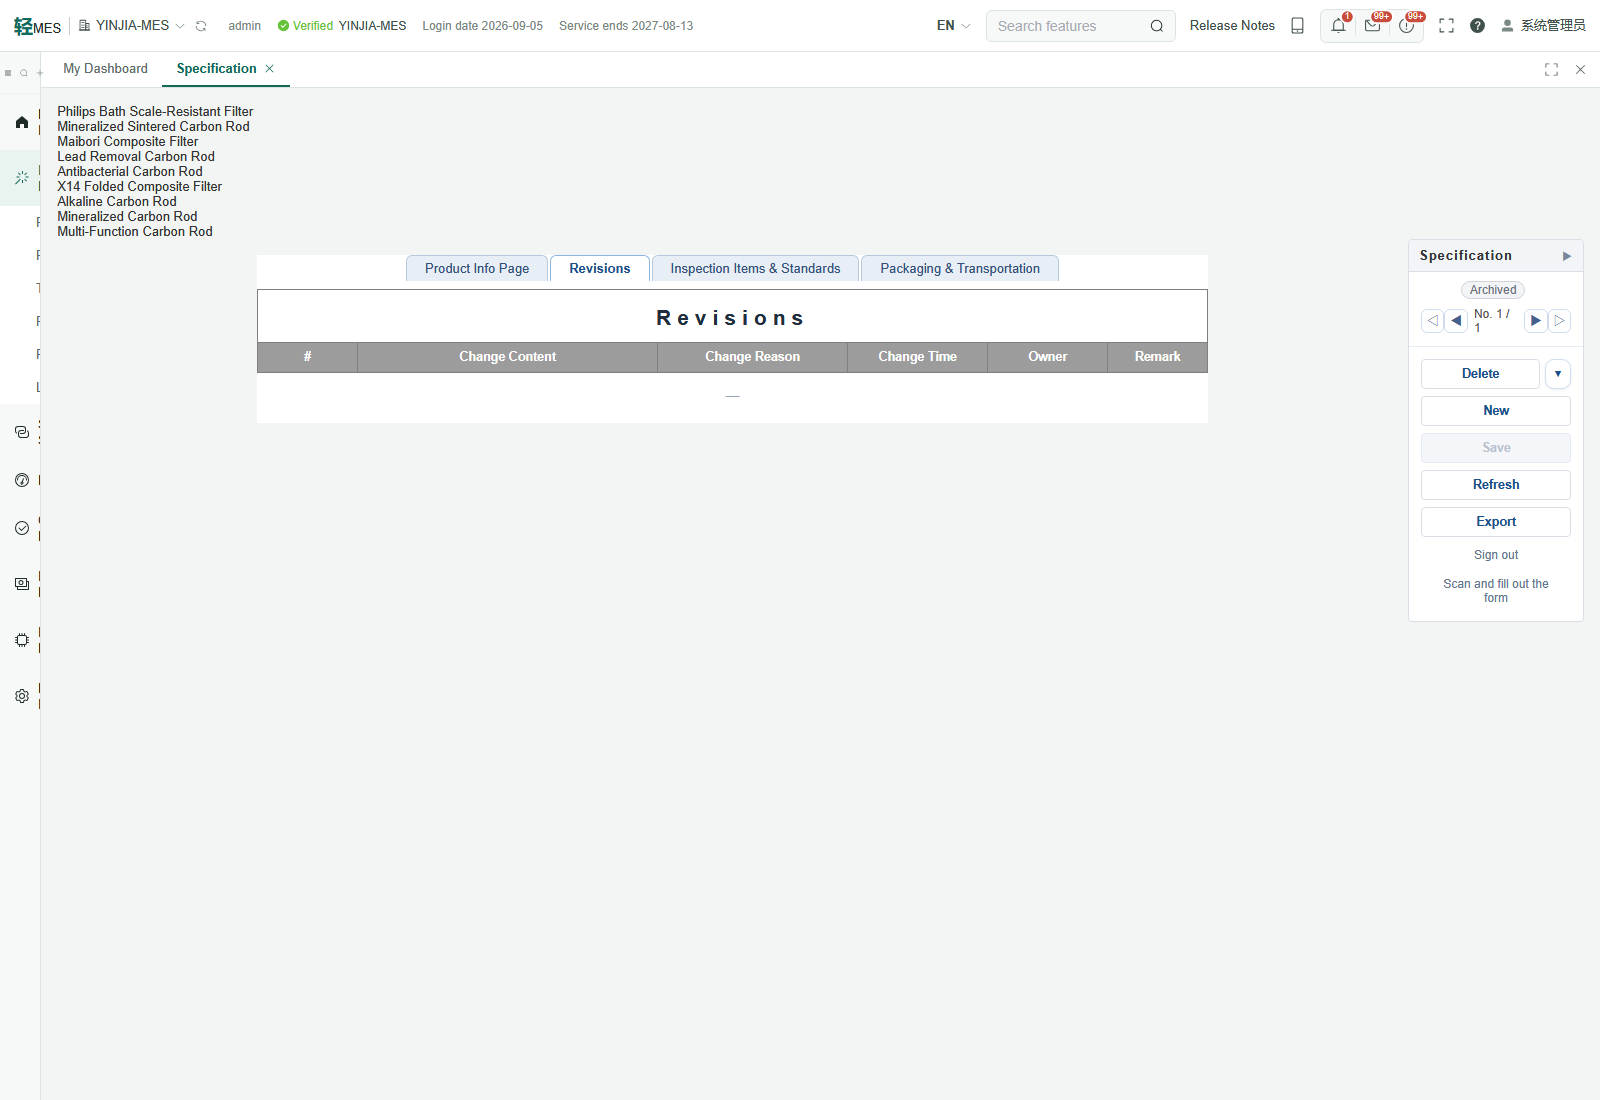
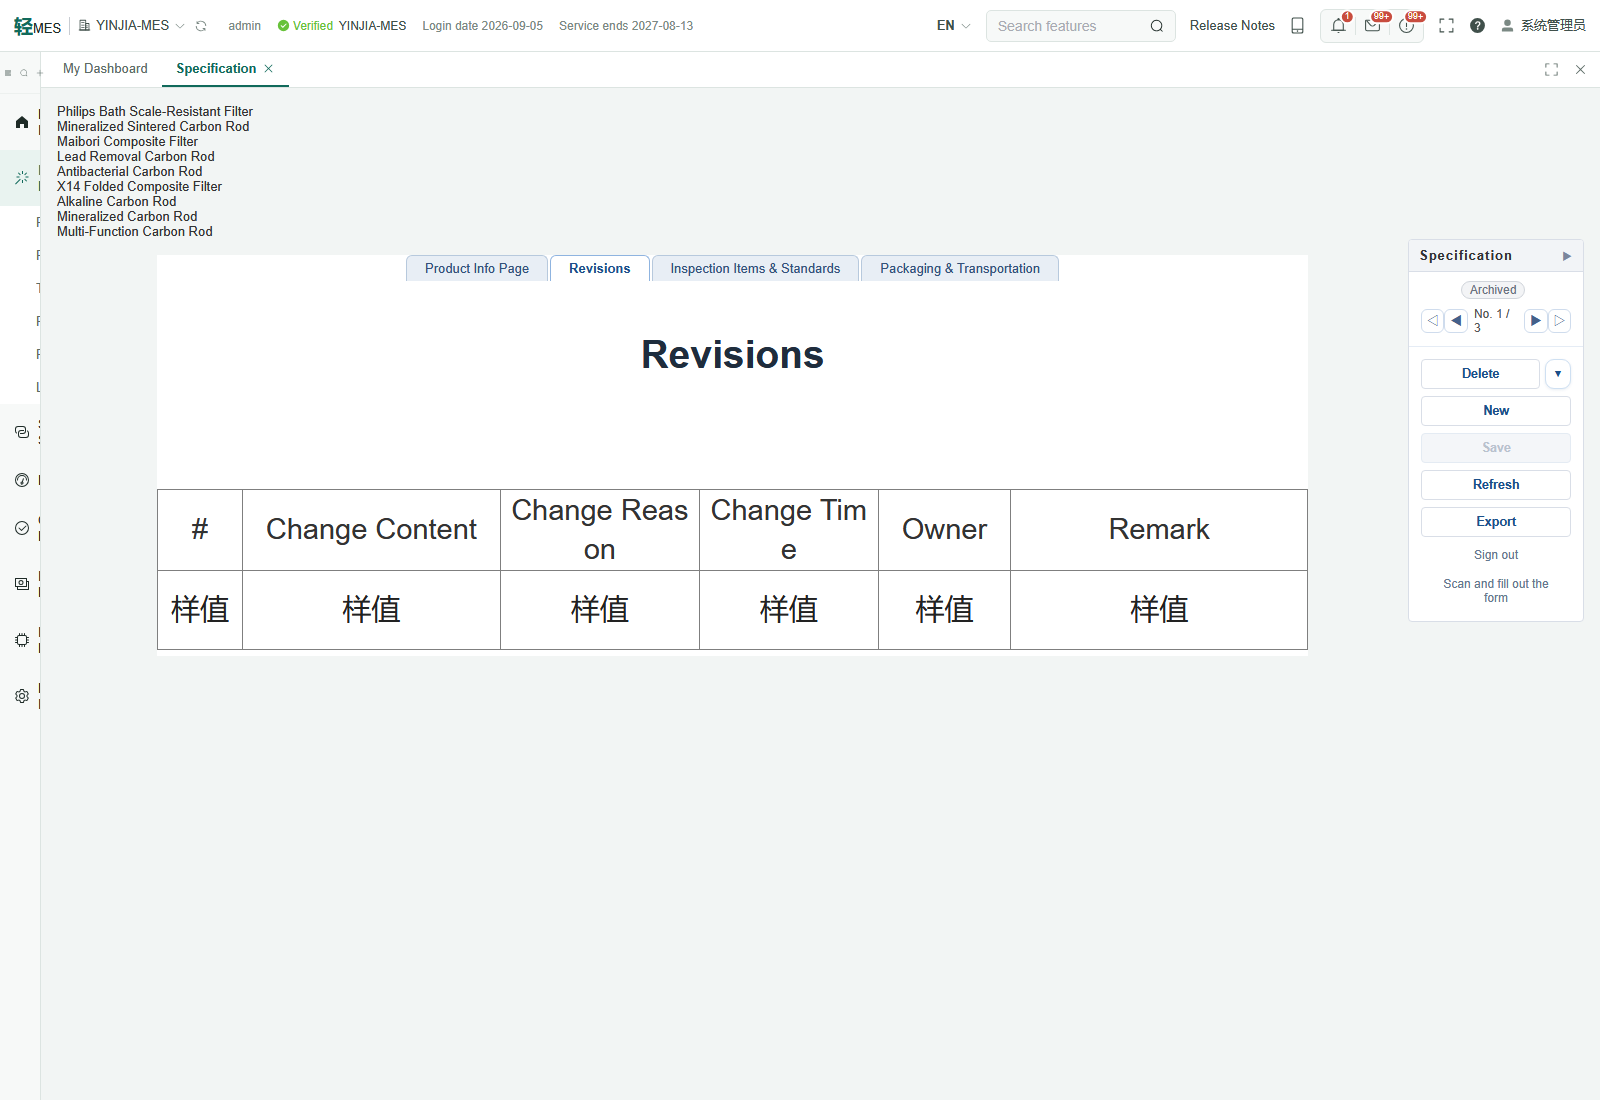
feat: 规格书修订记录页面图纸素级还原——dt.design 设计像素规范(标题字号/上下间距/表头行高/数据行高/字号按 k=网格宽÷表格设计宽 等比缩放);表头改白底正常字重,全部单元格居中,行高固定 65px/标题 32px(设计 666px 画布测量:列宽 46/140/108/97/72/161、表头 44、行 43、字号 16、标题 21);en 渲染同规格验证

diff --git a/frontend/src/core/views/RecordSheetPanels.vue b/frontend/src/core/views/RecordSheetPanels.vue
@@ -249,10 +249,10 @@
     <!-- ═══ 数据记录表(共享网格;支持子头行+两级表头;矿化 4 指标块各带散点图;按页归属渲染) ═══ -->
     <div v-for="(dt, di) in cfg.dataTables" v-show="pageOf(dt) === activePage" :key="'dt' + di" class="rsp-dt-wrap" :class="{ 'with-chart': dt.charts }">
       <div class="rsp-dt-table">
-        <table class="rs-t rs-dt" :style="{ width: (dtOwnsWidth(dt) ? dtW(dt) + (editable ? 60 : 0) : isPlain ? plainW(dt) : gridW + (editable ? 60 : 0)) + 'px' }">
+        <table class="rs-t rs-dt" :class="{ 'rsp-design-t': dt.design }" :style="{ width: (dtOwnsWidth(dt) ? (dt.design ? dtW(dt) * designK(dt) : dtW(dt)) + (editable ? 60 : 0) : isPlain ? plainW(dt) : gridW + (editable ? 60 : 0)) + 'px' }">
           <colgroup>
             <template v-if="isPlain || dtOwnsWidth(dt)">
-              <col v-for="(c, i) in visCols(dt)" :key="'dc' + i" :style="{ width: (c.w || 100) + 'px' }" />
+              <col v-for="(c, i) in visCols(dt)" :key="'dc' + i" :style="{ width: ((c.w || 100) * (dt.design ? designK(dt) : 1)).toFixed(1) + 'px' }" />
             </template>
             <template v-else>
               <col v-for="(w, i) in effGrid" :key="'dc' + i" :style="{ width: w + 'px' }" />
@@ -289,8 +289,8 @@
               <td v-if="editable" class="rsp-op-pad"></td>
             </tr>
             <!-- 页面级标题(规格书修订记录:设计图为居中大标题,非格式区条) -->
-            <tr v-if="dt.pageTitle">
-              <td :colspan="totalSpan(dt)" class="rsp-page-title">{{ tt(dt.pageTitle) }}</td>
+            <tr v-if="dt.pageTitle" :class="{ 'rsp-design': dt.design }">
+              <td :colspan="totalSpan(dt)" class="rsp-page-title" :style="designTitleStyle(dt)">{{ tt(dt.pageTitle) }}</td>
               <td v-if="editable" class="rsp-op-pad"></td>
             </tr>
             <tr v-if="dt.bar && !dt.pageTitle">
@@ -306,20 +306,20 @@
               <td v-for="(sh, shi) in spreadSubHeads(dt)" :key="'sh' + shi" :colspan="sh.span" class="rs-subhead">{{ tt(sh.label) }}</td>
               <td v-if="editable" class="rsp-op-pad"></td>
             </tr>
-            <tr class="rs-grp">
+            <tr class="rs-grp" :class="{ 'rsp-design': dt.design }">
               <template v-for="(g, gi) in headerRow1(dt)" :key="'h1' + gi">
-                <th v-if="g.kind === 'plain'" class="rs-th" :rowspan="g.rowspan" :colspan="g.span > 1 ? g.span : undefined">{{ tt(g.label) }}</th>
-                <th v-else-if="g.kind === 'group'" class="rs-th" :colspan="g.span">{{ tt(g.label) }}</th>
+                <th v-if="g.kind === 'plain'" class="rs-th" :style="designThStyle(dt)" :rowspan="g.rowspan" :colspan="g.span > 1 ? g.span : undefined">{{ tt(g.label) }}</th>
+                <th v-else-if="g.kind === 'group'" class="rs-th" :style="designThStyle(dt)" :colspan="g.span">{{ tt(g.label) }}</th>
               </template>
               <th v-if="editable" class="rs-th-op" :rowspan="hasGroup(dt) ? 2 : 1"></th>
             </tr>
             <tr v-if="hasGroup(dt)" class="rs-grp2">
               <th v-for="c in groupCols(dt)" :key="'h2' + c.key" class="rs-th" :colspan="(c.span || 1) > 1 ? c.span : undefined">{{ tt(c.label) }}</th>
             </tr>
-            <tr v-for="(row, i) in rowsOf(dt)" :key="row.id ?? ('new' + di + '-' + i)">
-              <td v-for="c in visCols(dt)" :key="c.key" class="rs-td" :colspan="(c.span || 1) > 1 ? c.span : undefined">
-                <el-input v-if="editable && c.area" v-model="row[c.key]" type="textarea" :autosize="{ minRows: 2, maxRows: 10 }" size="small" class="rs-t-in" @input="emit('dirty')" />
-                <el-input v-else-if="editable" v-model="row[c.key]" size="small" class="rs-c-in" @input="emit('dirty')" />
+            <tr v-for="(row, i) in rowsOf(dt)" :key="row.id ?? ('new' + di + '-' + i)" :class="{ 'rsp-design': dt.design }">
+              <td v-for="c in visCols(dt)" :key="c.key" class="rs-td" :style="designTdStyle(dt)" :colspan="(c.span || 1) > 1 ? c.span : undefined">
+                <el-input v-if="editable && c.area" v-model="row[c.key]" type="textarea" :autosize="{ minRows: 2, maxRows: 10 }" size="small" class="rs-t-in" :style="designInputStyle(dt)" @input="emit('dirty')" />
+                <el-input v-else-if="editable" v-model="row[c.key]" size="small" class="rs-c-in" :style="designInputStyle(dt)" @input="emit('dirty')" />
                 <span v-else class="rs-txt rsp-cell">{{ row[c.key] || ' / ' }}</span>
               </td>
               <td v-if="editable" class="rs-td-op"><span class="rs-op-add" @click="addRow(dt)">＋</span><span class="rs-op-del" @click="removeRow(row)">×</span></td>
@@ -558,6 +558,39 @@ function dtOwnsWidth(dt) {
 }
 function dtW(dt) {
   return visCols(dt).reduce((s, c) => s + (c.w || 100), 0)
+}
+
+// ── 像素级还原(dt.design):配置为设计图像素单位,按 k = 网格宽 / 可见列设计宽 等比缩放 ──
+function designK(dt) {
+  if (!dt.design) return 1
+  const w = visCols(dt).reduce((s, c) => s + (c.w || 100), 0)
+  return w ? gridW.value / w : 1
+}
+function dpx(dt, v) {
+  return Math.round(v * designK(dt))
+}
+function designTitleStyle(dt) {
+  if (!dt.design) return null
+  const d = dt.design
+  return {
+    fontSize: dpx(dt, d.titleSize || 21) + 'px',
+    letterSpacing: '0',
+    padding: `${dpx(dt, d.titleTop || 14)}px 0 ${dpx(dt, d.titleGap || 16)}px`,
+  }
+}
+function designThStyle(dt) {
+  if (!dt.design) return null
+  const d = dt.design
+  return { height: dpx(dt, d.headerH || 22) + 'px', fontSize: dpx(dt, d.fontSize || 11) + 'px', background: '#fff', color: '#333' }
+}
+function designTdStyle(dt) {
+  if (!dt.design) return null
+  const d = dt.design
+  return { height: dpx(dt, d.rowH || 21) + 'px', fontSize: dpx(dt, d.fontSize || 11) + 'px', textAlign: 'center' }
+}
+function designInputStyle(dt) {
+  if (!dt.design) return null
+  return { fontSize: dpx(dt, dt.design.fontSize || 11) + 'px', textAlign: 'center' }
 }
 
 // ── 键值对行(产品基本信息等):pair {label,key,type,vspan,cells:[{key}](多值格,如炭棒规格3格)} ──
@@ -884,6 +917,22 @@ function chartOf(dt) {
   font-weight: 600;
   letter-spacing: 6px;
   padding: 16px 0 12px;
+  text-align: center;
+}
+
+/* ═══ 像素级还原数据表(dt.design):单元格垂直居中,输入/文本随单元格字号 ═══ */
+.rsp-design-t .rs-td,
+.rsp-design-t .rs-th {
+  padding: 0 4px;
+  text-align: center;
+  vertical-align: middle;
+}
+.rsp-design-t .rs-th {
+  font-weight: 400;
+}
+.rsp-design-t .el-input__inner,
+.rsp-design-t .el-textarea__inner {
+  font-size: inherit !important;
   text-align: center;
 }
 

diff --git a/frontend/src/core/views/recordSheetConfigs.js b/frontend/src/core/views/recordSheetConfigs.js
@@ -844,14 +844,16 @@ export const recordSheetConfigs = {
       ]},
     ],
     dataTables: [
-      { page: 1, pageTitle: '修订记录', filterKey: '表区', filterVal: '修订记录', cols: [
-          { key: '表区', label: '表区', hiddenCol: true, w: 90 },
-          { key: '序号', label: '序号', w: 100 },
-          { key: '更改内容', label: '更改内容', w: 300 },
-          { key: '更改原因', label: '更改原因', w: 190 },
-          { key: '更改时间', label: '更改时间', w: 140 },
-          { key: '责任人', label: '责任人', w: 120 },
-          { key: '备注', label: '备注', w: 100 },
+      { page: 1, pageTitle: '修订记录', filterKey: '表区', filterVal: '修订记录',
+        design: { titleSize: 21, titleTop: 24, titleGap: 61, headerH: 44, rowH: 43, fontSize: 16 },
+        cols: [
+          { key: '表区', label: '表区', hiddenCol: true, w: 46 },
+          { key: '序号', label: '序号', w: 46 },
+          { key: '更改内容', label: '更改内容', w: 140 },
+          { key: '更改原因', label: '更改原因', w: 108 },
+          { key: '更改时间', label: '更改时间', w: 97 },
+          { key: '责任人', label: '责任人', w: 72 },
+          { key: '备注', label: '备注', w: 161 },
         ]},
       { page: 2, bar: '4.产品性能检验项目及检验标准', filterKey: '表区', filterVal: '检验要求', lib: true, cols: [
           { key: '表区', label: '表区', hiddenCol: true },
